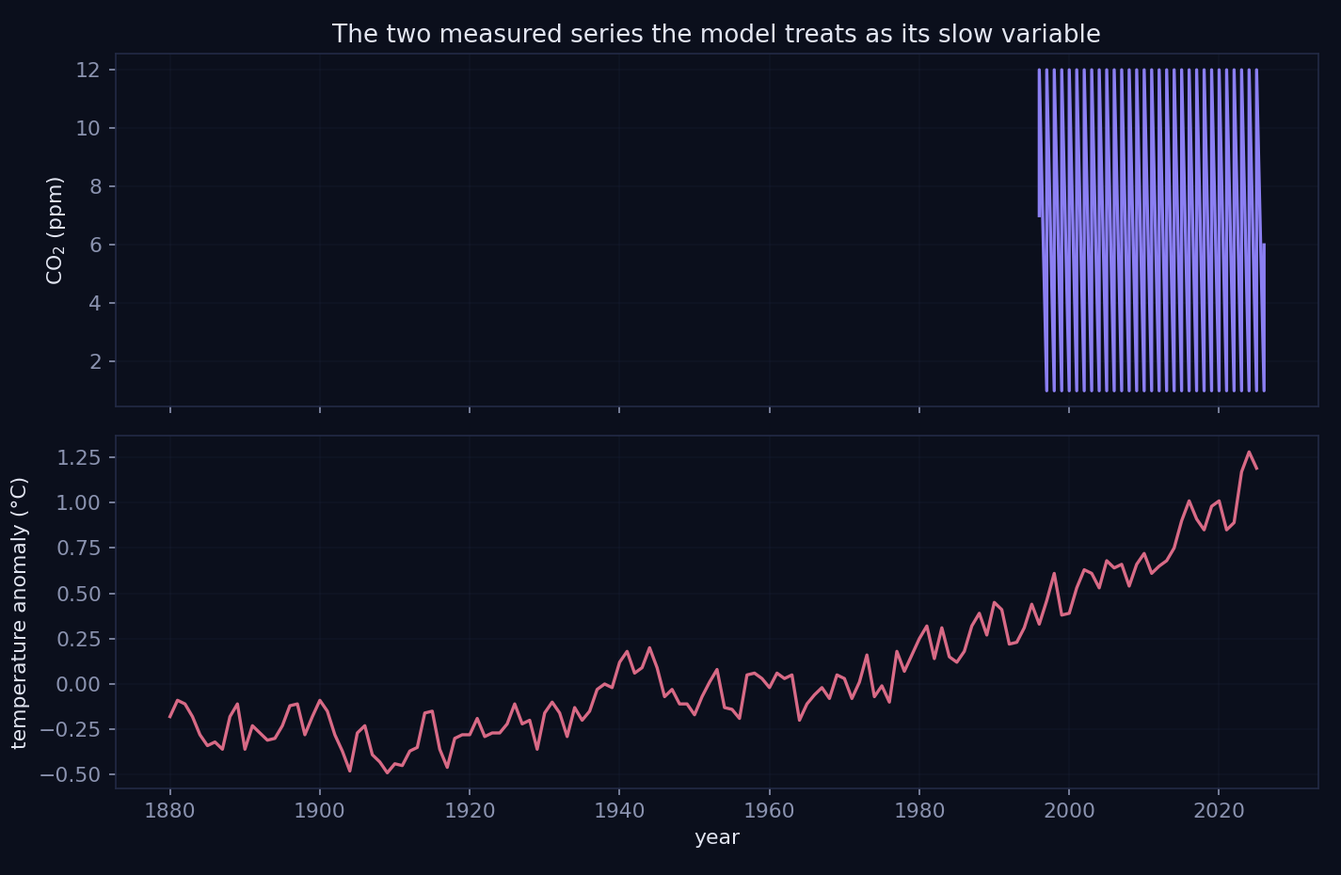
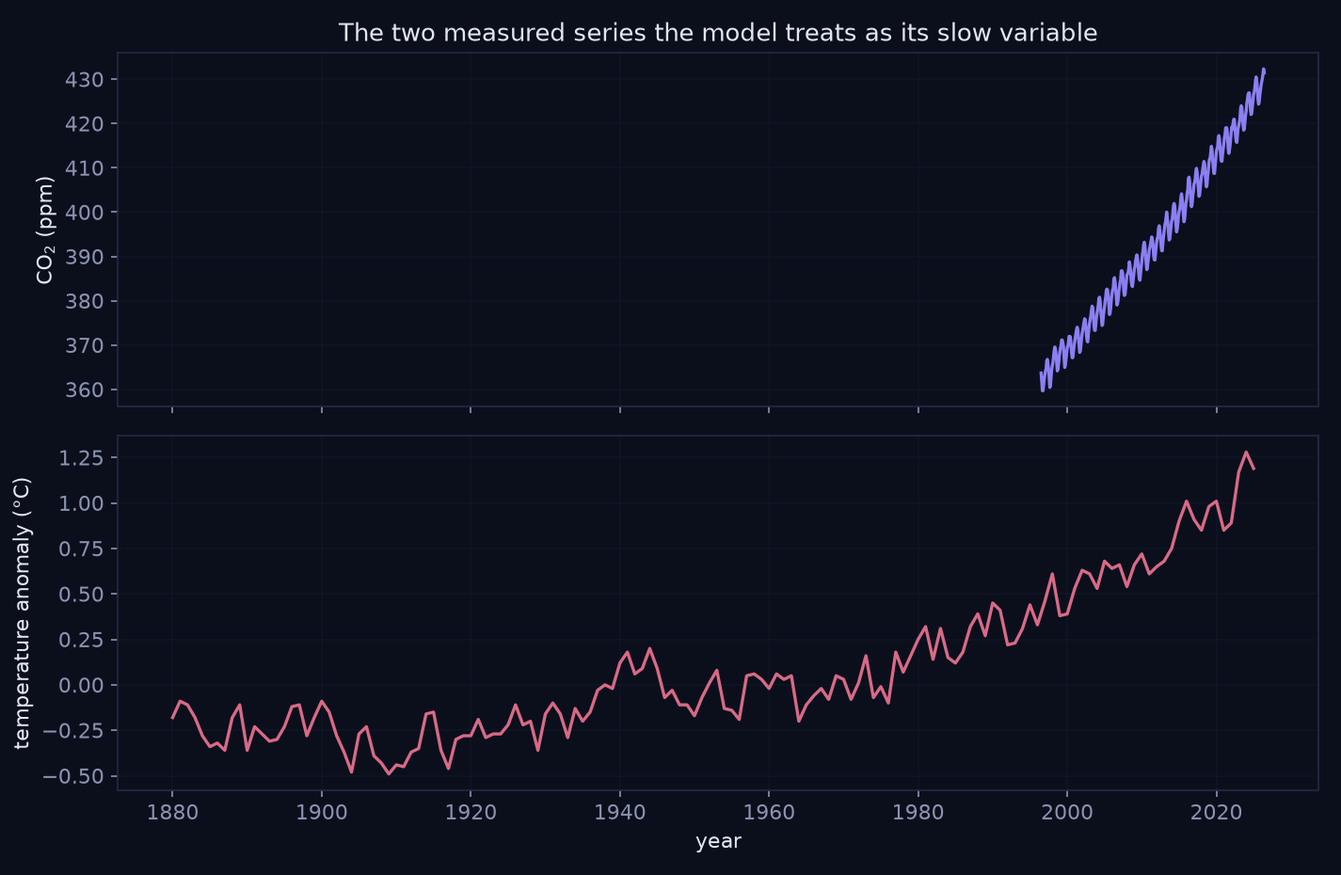
Fix real chart bugs across the site: wrong data, broken layout, off-theme
Found and fixed a genuine data bug: 11_climate_record.png plotted p[0]/p[1]
of a [year, month, ppm] triplet directly, graphing year against month number
instead of the real CO2 ppm value - the y-axis read 2-12 instead of ~360-430
and only ~30 years of monthly data rendered as a compressed zigzag instead of
the full 1880-2024 Keeling-curve shape.

Found and fixed a blocking NameError in longevity-quotient/build_lq.py:
_save() called plt.close(fig) but matplotlib.pyplot was only imported
locally inside figures(), so every run past the first figure crashed before
reaching audit or save - meaning lq_allometry/lq_orders/lq_wild_captive had
not actually been regenerated in a long time despite carrying site-matching
color constants (INK/DIM, real per-class hex codes) that were never applied,
because the one rcParams call that would have switched the canvas to the
site's dark background was simply never added. Fixed both: the import scope
and the missing dark-theme rcParams block.

Fixed the same shared audit()'s false-positive off-canvas findings
(fig_lq_explained.py) by adding the view-limit guard that the two other
independent audit implementations in this codebase (figstyle.py,
build_throughlines.py) already carry - a locator keeps Text objects for
ticks just past each edge that are never actually drawn.

Fixed three separate hard character-count label truncations that cut text
off mid-word (build_throughlines.py's route labels, build_atlas_figures.py's
[…]

diff --git a/site/library.html b/site/library.html
@@ -27,7 +27,7 @@ drawn by hand.</p>
 </div><div class="card">
 <div class="tag">seaborn histogram and matplotlib cumulative curve</div>
 <h3 style="margin-top:4px">How world electricity demand is distributed and concentrated</h3>
-<img class="fig wide" src="assets/02_demand_distribution.png?v=107cb4ff" alt="How world electricity demand is distributed and concentrated">
+<img class="fig wide" src="assets/02_demand_distribution.png?v=cfe7dbe1" alt="How world electricity demand is distributed and concentrated">
 <p>The left panel counts countries by their average electricity demand. The scale is logarithmic because the range is very wide. The right panel adds the countries together, starting with the largest. It shows how few countries hold most of the world demand. This concentration is the reason a change in one large system can move the world total.</p>
 
 </div><div class="card">
@@ -39,37 +39,37 @@ drawn by hand.</p>
 </div><div class="card">
 <div class="tag">seaborn box plot</div>
 <h3 style="margin-top:4px">How strongly each type of node resists change</h3>
-<img class="fig wide" src="assets/04_inertia_by_type.png?v=ab8f6f63" alt="How strongly each type of node resists change">
+<img class="fig wide" src="assets/04_inertia_by_type.png?v=374d9823" alt="How strongly each type of node resists change">
 <p>Inertia controls the speed of a node. A recorded event has the lowest inertia because a disaster happens at once. Behaviour channels have the highest inertia because habits change over years. Price benchmarks cover a range, because each one takes its value from its own measured volatility. This single parameter produces the order in which effects arrive across the model.</p>
 
 </div><div class="card">
 <div class="tag">seaborn histogram and matplotlib bar</div>
 <h3 style="margin-top:4px">The structure of the links between nodes</h3>
-<img class="fig wide" src="assets/05_link_structure.png?v=d5cf8e91" alt="The structure of the links between nodes">
+<img class="fig wide" src="assets/05_link_structure.png?v=4bd0ae10" alt="The structure of the links between nodes">
 <p>The left panel counts links by their weight. Most links are weak. A small number are strong. This shape is expected, because each node connects strongly to a few neighbours and weakly to many others. The right panel shows which pairs of node types are joined most often. The model contains 197,068 links in total, of which 1,144 are negative. A negative link carries relief rather than stress.</p>
 
 </div><div class="card">
 <div class="tag">seaborn heat map with annotations</div>
 <h3 style="margin-top:4px">How far one change travels, by the layer it starts in</h3>
-<img class="fig wide" src="assets/06_scenario_reach.png?v=114d30c3" alt="How far one change travels, by the layer it starts in">
+<img class="fig wide" src="assets/06_scenario_reach.png?v=7b7b295c" alt="How far one change travels, by the layer it starts in">
 <p>Each bar is a change applied to the most connected node in one layer, and its length is the number of other nodes that finished more than 0.02 away from where they started. The axis is logarithmic because the answers span five orders of magnitude: a change at the most connected power plant in the world moves one other node, and a change at the climate moves seventy-eight thousand. The climate is the only node in the model that connects to every country. The spread is the evidence that the propagation discriminates rather than floods.</p>
 
 </div><div class="card">
 <div class="tag">matplotlib, logarithmic count axis</div>
 <h3 style="margin-top:4px">When the effect arrives</h3>
-<img class="fig wide" src="assets/07_arrival_order.png?v=425fc719" alt="When the effect arrives, by the layer the change starts in">
+<img class="fig wide" src="assets/07_arrival_order.png?v=a4bb976c" alt="When the effect arrives, by the layer the change starts in">
 <p>One line per starting layer. Each point counts the nodes reached for the first time at that step, so the area under a line is that layer&rsquo;s total reach. A grid delivers almost everything it is going to deliver in the first two steps, because its plants and districts are its immediate neighbours. A price works through the fuel supplies and the grids behind them and is still reaching new nodes twenty steps later. Physical coupling is fast and shallow; market coupling is slow and deep.</p>
 
 </div><div class="card">
 <div class="tag">matplotlib with twin axes</div>
 <h3 style="margin-top:4px">The model saturates rather than growing without limit</h3>
-<img class="fig wide" src="assets/08_response_curve.png?v=437f4faf" alt="The model saturates rather than growing without limit">
+<img class="fig wide" src="assets/08_response_curve.png?v=b639c342" alt="The model saturates rather than growing without limit">
 <p>A change is applied to the climate, the most widely connected node in the model, and its size is raised in steps from a twentieth to the maximum. The violet line counts the nodes that moved; the gold line gives the mean effect among them. The violet line is nearly vertical and then flat: past about a fifth of full size the change already reaches everything it is ever going to reach, and pushing harder only pushes those same nodes further. The gold line keeps climbing, but with a bend, because the tanh in the calculation bounds every node inside (&minus;1, 1). A price cannot rise without end and a grid cannot fail more than completely.</p>
 
 </div><div class="card">
 <div class="tag">plotnine, grammar of graphics</div>
 <h3 style="margin-top:4px">System size against low carbon share</h3>
-<img class="fig wide" src="assets/09_size_vs_lowcarbon.png?v=979dc8b0" alt="System size against low carbon share">
+<img class="fig wide" src="assets/09_size_vs_lowcarbon.png?v=db38614b" alt="System size against low carbon share">
 <p>Each point is one country. The horizontal position is the size of its power system. The vertical position is the share of its electricity that comes from nuclear, hydro or other renewable sources. The grey line is a smoothed trend. The plot shows that size alone does not decide the low carbon share. Small systems occupy the full range, because a single large hydro station can supply most of a small country.</p>
 
 </div><div class="card">
@@ -82,25 +82,25 @@ drawn by hand.</p>
 </div><div class="card">
 <div class="tag">matplotlib, stacked time series</div>
 <h3 style="margin-top:4px">The two climate series that set the state of the model</h3>
-<img class="fig wide" src="assets/11_climate_record.png?v=f3c15d6f" alt="The two climate series that set the state of the model">
+<img class="fig wide" src="assets/11_climate_record.png?v=40ff5450" alt="The two climate series that set the state of the model">
 <p>The upper panel is the carbon dioxide record from Mauna Loa. The saw pattern is the growing season of the northern hemisphere. The lower panel is the global temperature anomaly. Both series are read directly into the model. They set the starting state of the two climate nodes. The climate nodes then connect to every national grid, and to the gas and electricity prices, through heating and cooling demand.</p>
 
 </div><div class="card">
 <div class="tag">pandas plotting on matplotlib axes</div>
 <h3 style="margin-top:4px">Recorded disasters that the model contains</h3>
-<img class="fig wide" src="assets/12_recorded_events.png?v=3f8b12eb" alt="Recorded disasters that the model contains">
+<img class="fig wide" src="assets/12_recorded_events.png?v=451b14ca" alt="Recorded disasters that the model contains">
 <p>The left panel adds the adjusted damage of every energy relevant disaster in each decade, and separates the total by disaster type. The right panel names the twelve costliest single events. These records come from the international disaster database. In the model, each event is a node. The recorded damage sets the strength of the link from that event to the national grid of the country it struck.</p>
 
 </div><div class="card">
 <div class="tag">matplotlib, computed field and measured series</div>
 <h3 style="margin-top:4px">The space layer</h3>
-<img class="fig wide" src="assets/14_space_layer.png?v=ef648f89" alt="Annual mean insolation against latitude, and the measured total solar irradiance">
+<img class="fig wide" src="assets/14_space_layer.png?v=eac55590" alt="Annual mean insolation against latitude, and the measured total solar irradiance">
 <p>On the left, the annual mean sunlight arriving above the atmosphere at each latitude. This is not data. It is computed from the measured solar constant, the obliquity of 23.44 degrees and the eccentricity of the orbit, integrated over 365 days. The dashed line is the solar constant divided by four, which is what the area-weighted mean of the curve has to equal &mdash; the disc the Earth intercepts over the sphere it radiates from. It agrees to one part in ten thousand, which is the check that the integration is right rather than merely plausible. The equator receives 416 W/m&sup2; and the poles about 174.</p>
 <p>On the right, the measured total solar irradiance, NRLTSI2, with its stated uncertainty as the shaded band. Four solar cycles are visible. The whole vertical range of the panel is two watts in thirteen hundred and sixty, which is the honest scale of the thing the solar minimum scenario perturbs.</p>
 
 <div class="tag">matplotlib, horizontal bar, log scale</div>
 <h3 style="margin-top:4px">Every node names its source</h3>
-<img class="fig wide" src="assets/13_provenance.png?v=c487cf8a" alt="Every node names its source">
+<img class="fig wide" src="assets/13_provenance.png?v=feec08cf" alt="Every node names its source">
 <p>The model records where each node came from. This chart counts the nodes by source. The largest groups are the settlement list from GeoNames and the plant list from the World Resources Institute. The group marked as published studies holds the consumer response values. These values are the only assumed parameters in the model, and they are labelled so that a reader can find them.</p>
 
 </div>

diff --git a/site/longevity.html b/site/longevity.html
@@ -27,7 +27,7 @@ enough to be worth dividing out. What remains is the longevity quotient:</p>
 <p style="text-align:center;font-size:16px"><code>LQ = observed lifespan ÷
 lifespan predicted from body mass</code></p>
 
-<img class="fig wide" src="assets/lq_explained.png?v=212adeb1" alt="Three animals of increasing mass, with the lifespan the allometry predicts beside the lifespan actually observed, and the quotient that falls out.">
+<img class="fig wide" src="assets/lq_explained.png?v=6c856fa3" alt="Three animals of increasing mass, with the lifespan the allometry predicts beside the lifespan actually observed, and the quotient that falls out.">
 <p class="small">Mass rises left to right and so does the prediction, because the fit can only go up. What the animals do is not monotonic, and the quotient is what is left once size has been divided out.</p>
 
 <p>It is built by analogy with the encephalisation quotient<sup class="cite" id="cr1"><a href="#ref1">1</a></sup>, which does the
@@ -52,7 +52,7 @@ member or species count. Click a group to drop into the species inside it.</p>
 <a class="btn ghost" href="downloads/longevity-code.zip">Download code and data</a>
 </div>
 
-<img class="fig wide" src="assets/lq_allometry.png?v=4532baea"
+<img class="fig wide" src="assets/lq_allometry.png?v=43b17fa5"
  alt="Maximum lifespan against adult body mass on logarithmic axes, coloured by
  class, with the fitted global relationship and labelled outliers">
 <p class="small">Lifespan against body mass. The dashed line is the fit across
@@ -76,7 +76,7 @@ Flight, burrowing, venom, armour and simply being difficult to swallow all
 register as raised quotients. Being a ground bird or a small terrestrial
 insectivore registers as the reverse.</p>
 
-<img class="fig wide" src="assets/lq_orders.png?v=36f3b56f"
+<img class="fig wide" src="assets/lq_orders.png?v=30b1f34a"
  alt="Bar chart of taxonomic orders ranked by geometric mean longevity quotient">
 <p class="small">Every order holding four or more species, ranked by geometric
 mean quotient. The dashed line is parity with prediction.</p>
@@ -118,7 +118,7 @@ it appears the moment body mass is divided out.</p>
 quahog 45&times; above it (a real 507-year lifespan), the giant Pacific
 octopus about a twentieth below (dead in five real years).</p>
 
-<img class="fig wide" src="assets/lq_wild_captive.png?v=e489e3de"
+<img class="fig wide" src="assets/lq_wild_captive.png?v=1972ddb8"
  alt="Dumbbell chart comparing wild and captive maximum lifespan by species">
 <p class="small">Wild against captive, sorted by the size of the gap. Where
 protection helps most, and where it does not help at all.</p>

diff --git a/site/heat.html b/site/heat.html
@@ -55,16 +55,16 @@ this heat increases emissions.</p>
 rising with price to the real break-even at 1.53&cent;/kWh, then on to
 today's real operating point at 6.5&cent; and $20.00.</p>
 
-<img class="fig wide" src="assets/heat_fig1_breakeven_price.png?v=e714947e" alt="Break-even electricity price as a function of the gas price. The line is the locus where the two routes cost the same; below it the electric boiler wins.">
+<img class="fig wide" src="assets/heat_fig1_breakeven_price.png?v=4dfe72c4" alt="Break-even electricity price as a function of the gas price. The line is the locus where the two routes cost the same; below it the electric boiler wins.">
 <p class="small">Break-even electricity price as a function of the gas price. The line is the locus where the two routes cost the same; below it the electric boiler wins.</p>
 
-<img class="fig wide" src="assets/heat_fig3_costgap_contour.png?v=26942bad" alt="Cost gap across the electricity price and gas price plane. The diagonal structure is the spark gap dominating both axes.">
+<img class="fig wide" src="assets/heat_fig3_costgap_contour.png?v=5717fe3b" alt="Cost gap across the electricity price and gas price plane. The diagonal structure is the spark gap dominating both axes.">
 <p class="small">Cost gap across the electricity price and gas price plane. The diagonal structure is the spark gap dominating both axes.</p>
 
-<img class="fig wide" src="assets/heat_fig4_tornado.png?v=623c085d" alt="Sensitivity of the break-even to every input. Fuel prices dominate; capital and operations barely move it.">
+<img class="fig wide" src="assets/heat_fig4_tornado.png?v=f4c194c4" alt="Sensitivity of the break-even to every input. Fuel prices dominate; capital and operations barely move it.">
 <p class="small">Sensitivity of the break-even to every input. Fuel prices dominate; capital and operations barely move it.</p>
 
-<img class="fig wide" src="assets/heat_fig5_emissions_parity.png?v=9ac36287" alt="Emissions of both routes against grid carbon intensity. The crossing point is the parity threshold.">
+<img class="fig wide" src="assets/heat_fig5_emissions_parity.png?v=a425c7d2" alt="Emissions of both routes against grid carbon intensity. The crossing point is the parity threshold.">
 <p class="small">Emissions of both routes against grid carbon intensity. The crossing point is the parity threshold.</p>
 
 

diff --git a/longevity-quotient/longevity.html b/longevity-quotient/longevity.html
@@ -320,7 +320,7 @@ const RAW = (function () {
   }
   return out;
 })();
-const FITS = {"n_species":7873,"n_colonial_excluded_from_fits":4,"grade_census":{"C":1471,"B":6249,"A":149},"quality_weights":{"A":1.0,"B":0.5,"C":0.2},"ranks":{"kingdom":1,"phylum":10,"class":32,"order":199,"family":764,"genus":2921},"global_fit":{"a":0.5646355412419513,"b":0.19149893984216232,"r2":0.29803144631467693,"n":6398.0},"class_fits":{"Pisces":{"a":0.3818502356312261,"b":0.24112965870293157,"r2":0.5434339054692565,"n":876.0},"Invertebrata":{"a":0.593463212553046,"b":0.25605278620361555,"r2":0.4050996733686495,"n":57.0},"Aves":{"a":0.7039205212026438,"b":0.21485354882274568,"r2":0.41222508300103344,"n":1883.0},"Mammalia":{"a":0.31969466232726984,"b":0.22190670105864863,"r2":0.3689921891060992,"n":2583.0},"Reptilia":{"a":0.5854078745433863,"b":0.21404081132233366,"r2":0.3329696240953478,"n":916.0}},"rejected_fits":{"Amphibia":"fit too weak (r2=0.043, n_eff=83)"}};
+const FITS = {"n_species":7873,"n_colonial_excluded_from_fits":4,"grade_census":{"C":1471,"B":6249,"A":149},"quality_weights":{"A":1.0,"B":0.5,"C":0.2},"ranks":{"kingdom":1,"phylum":10,"class":32,"order":199,"family":764,"genus":2921},"global_fit":{"a":0.5646355412419608,"b":0.19149893984216265,"r2":0.29803144631467504,"n":6398.0},"class_fits":{"Pisces":{"a":0.381850235631231,"b":0.24112965870293154,"r2":0.5434339054692574,"n":876.0},"Invertebrata":{"a":0.5934632125530459,"b":0.2560527862036156,"r2":0.4050996733686498,"n":57.0},"Aves":{"a":0.7039205212026463,"b":0.21485354882274485,"r2":0.4122250830010342,"n":1883.0},"Mammalia":{"a":0.3196946623272643,"b":0.221906701058648,"r2":0.3689921891060991,"n":2583.0},"Reptilia":{"a":0.585407874543387,"b":0.21404081132233282,"r2":0.3329696240953477,"n":916.0}},"rejected_fits":{"Amphibia":"fit too weak (r2=0.043, n_eff=83)"}};
 const ROWH = 30;
 const RANKNAME = {ki:'kingdom',ph:'phylum',cl:'class',or:'order',
                   fa:'family',ge:'genus'};

diff --git a/site/storage.html b/site/storage.html
@@ -52,16 +52,16 @@ over about a third as many equivalent cycles as the two-hour case.</p>
 against a dashed line showing what linear growth from the first two would
 have looked like.</p>
 
-<img class="fig wide" src="assets/storage_fig3_duration_value.png?v=b54d5a77" alt="Revenue against storage duration. The curve bends at about four hours.">
+<img class="fig wide" src="assets/storage_fig3_duration_value.png?v=ea3889b3" alt="Revenue against storage duration. The curve bends at about four hours.">
 <p class="small">Revenue against storage duration. The curve bends at about four hours.</p>
 
-<img class="fig wide" src="assets/storage_fig2_dispatch_week.png?v=33b76c80" alt="A summer week of dispatch. Charging fills the solar belly of the day; discharge meets the evening peak.">
+<img class="fig wide" src="assets/storage_fig2_dispatch_week.png?v=1d9f4b7e" alt="A summer week of dispatch. Charging fills the solar belly of the day; discharge meets the evening peak.">
 <p class="small">A summer week of dispatch. Charging fills the solar belly of the day; discharge meets the evening peak.</p>
 
-<img class="fig wide" src="assets/storage_fig4_sensitivity.png?v=915a1c38" alt="Sensitivity to round-trip efficiency and degradation cost.">
+<img class="fig wide" src="assets/storage_fig4_sensitivity.png?v=4292e72a" alt="Sensitivity to round-trip efficiency and degradation cost.">
 <p class="small">Sensitivity to round-trip efficiency and degradation cost.</p>
 
-<img class="fig wide" src="assets/storage_fig1_prices.png?v=9dad5ac5" alt="The price series: duration curve and average daily shape.">
+<img class="fig wide" src="assets/storage_fig1_prices.png?v=8be86fca" alt="The price series: duration curve and average daily shape.">
 <p class="small">The price series: duration curve and average daily shape.</p>
 
 <h2>Method</h2>

diff --git a/site/index.html b/site/index.html
@@ -34,11 +34,11 @@ try{var m=localStorage.getItem('motion');if(m!=='on'&&m!=='off')m=matchMedia('(p
 
 <div class="mosaic" aria-hidden="true">
 <a href="library.html" tabindex="-1"><img src="assets/01_world_fuel_mix.png?v=c9da749e" alt=""></a>
-<a href="library.html" tabindex="-1"><img src="assets/02_demand_distribution.png?v=107cb4ff" alt=""></a>
+<a href="library.html" tabindex="-1"><img src="assets/02_demand_distribution.png?v=cfe7dbe1" alt=""></a>
 <a href="library.html" tabindex="-1"><img src="assets/03_price_histories.png?v=a959c533" alt=""></a>
-<a href="library.html" tabindex="-1"><img src="assets/04_inertia_by_type.png?v=ab8f6f63" alt=""></a>
-<a href="library.html" tabindex="-1"><img src="assets/05_link_structure.png?v=d5cf8e91" alt=""></a>
-<a href="library.html" tabindex="-1"><img src="assets/06_scenario_reach.png?v=114d30c3" alt=""></a>
+<a href="library.html" tabindex="-1"><img src="assets/04_inertia_by_type.png?v=374d9823" alt=""></a>
+<a href="library.html" tabindex="-1"><img src="assets/05_link_structure.png?v=4bd0ae10" alt=""></a>
+<a href="library.html" tabindex="-1"><img src="assets/06_scenario_reach.png?v=7b7b295c" alt=""></a>
 </div>
 
 <img class="fig wide" src="assets/energy_model_chart.png?v=fbbcf9ef"

diff --git a/site/model.html b/site/model.html
@@ -135,7 +135,7 @@ links, using the coefficients from 4.3.</li>
 up at sixty steps. Nothing in this write-up reaches sixty.</p>
 </div>
 
-<img class="fig wide" src="assets/model_propagation_step.png?v=c7b4bda7"
+<img class="fig wide" src="assets/model_propagation_step.png?v=12fc8122"
  alt="One node, one step: driver weights into a weighted mean, damped by inertia, an optional applied change, squashed by tanh, moving the node toward its new effect">
 
 <h2>5. How the model is weighted</h2>
@@ -222,7 +222,7 @@ The check file is <code>calibrate/out/parity_target.json</code>.</p>
 
 <hr>
 <h2>Figures from this model</h2>
-<img class="fig wide" src="assets/energy_model_throughlines.png?v=17dc790e"
+<img class="fig wide" src="assets/energy_model_throughlines.png?v=286ad871"
  alt="Routes through the model from the climate to behaviour">
 <p class="small">The routes through the system, computed from the link weights.
 <a href="library.html">All figures</a>.</p>

diff --git a/build_throughlines.py b/build_throughlines.py
@@ -192,7 +192,7 @@ def main():
                           right=0.965, top=0.500, bottom=0.045)
 
     fig.text(0.055, 0.978, "Throughlines: from the sun to the mind",
-             color=INK, fontsize=21, fontweight="600", va="top")
+             color=INK, fontsize=21, fontweight="bold", va="top")
     fig.text(0.055, 0.951,
              "Every number on this sheet is read from the published model and "
              "computed with the propagation the atlas runs.",
@@ -220,7 +220,7 @@ def main():
             boxstyle="round,pad=0.25,rounding_size=0.4",
             linewidth=1.2, edgecolor=KCOL[k], facecolor=FAINT, zorder=2))
         ax.text(x, y + 1.0, LABEL[k], ha="center", va="center", color=INK,
-                fontsize=9.6, fontweight="600", zorder=3)
+                fontsize=9.6, fontweight="bold", zorder=3)
         ax.text(x, y - 1.3, f"{counts[k]:,}", ha="center", va="center",
                 color=DIM, fontsize=9.0, zorder=3)
         at[k] = (x, y, w, h)
@@ -275,15 +275,15 @@ def main():
             seen.add(nxt)
             cur = nxt
         axb.text(0, y + 11.5, title, color=INK, fontsize=11,
-                 fontweight="600", va="center")
+                 fontweight="bold", va="center")
         step = 100.0 / max(len(route), 1)
         for j, n in enumerate(route):
             x = j * step + 2
             axb.scatter([x], [y], s=95, color=KCOL.get(kind[n], DIM),
                         zorder=3, edgecolors=BG, linewidths=1.2)
             label = nm[n]
-            if len(label) > 26:
-                label = label[:25].rstrip() + "…"
+            if len(label) > 40:
+                label = label[:39].rsplit(" ", 1)[0].rstrip() + "…"
             axb.text(x, y - 7, label, color=DIM, fontsize=8.2,
                      ha="left", va="center", rotation=0)
             axb.text(x, y + 4.5, f"{st[n]:+.3f}", color=INK, fontsize=8.4,
@@ -378,8 +378,8 @@ def main():
     im = axe.imshow(M, aspect="auto", cmap="magma",
                     norm=matplotlib.colors.PowerNorm(0.45))
     axe.set_xticks(range(len(order)))
-    axe.set_xticklabels([SHORT[k] for k in order], rotation=55, ha="right",
-                        color=DIM, fontsize=7.6,
+    axe.set_xticklabels([SHORT[k] for k in order], rotation=68, ha="right",
+                        color=DIM, fontsize=7.2,
                         rotation_mode="anchor")
     axe.set_yticks(range(len(names)))
     axe.set_yticklabels(names, color=DIM, fontsize=8.6)

diff --git a/longevity-quotient/build_lq.py b/longevity-quotient/build_lq.py
@@ -38,6 +38,13 @@ import json
 import math
 import os
 
+import matplotlib
+matplotlib.use("Agg")
+import matplotlib.pyplot as plt  # noqa: E402 - needed at module level so
+                                  # _save() (defined before figures()) can
+                                  # reach it; a local import inside figures()
+                                  # alone left _save() with an undefined name.
+
 HERE = os.path.dirname(os.path.abspath(__file__))
 # The merged table is the model of record when it exists. The hand-checked
 # seed is kept beside it and is still the highest-precedence source inside the
@@ -490,9 +497,21 @@ def _save(fig, name):
 
 
 def figures(rows, summary, fit_rows):
-    import matplotlib
-    matplotlib.use("Agg")
-    import matplotlib.pyplot as plt
+
+    # These four figures already carried INK/DIM and the real per-class site
+    # colors (see `colors` below), but never actually switched the canvas to
+    # the site's dark background - the choice of colors implies the intent,
+    # the rcParams to realize it were simply never set, so every one of them
+    # rendered as a light matplotlib-default figure next to the rest of the
+    # (dark) site.
+    BG = "#070a12"
+    plt.rcParams.update({
+        "figure.facecolor": BG, "axes.facecolor": BG, "savefig.facecolor": BG,
+        "text.color": INK, "axes.labelcolor": INK, "axes.titlecolor": INK,
+        "xtick.color": DIM, "ytick.color": DIM,
+        "axes.edgecolor": "#232a45", "grid.color": "#232a45",
+        "axes.spines.top": False, "axes.spines.right": False,
+    })
 
     ga, gb = summary["global_fit"]["a"], summary["global_fit"]["b"]
     colors = {"Mammalia": "#8b7ff2", "Aves": "#5aa8d8", "Reptilia": "#4f9d84",

diff --git a/build_atlas_figures.py b/build_atlas_figures.py
@@ -313,7 +313,9 @@ def main():
             if key.lower() in s.lower():
                 return name
         head = s.split("·")[0].strip()
-        return (head[:38] + "…") if len(head) > 38 else (head or "unattributed")
+        if len(head) <= 55:
+            return head or "unattributed"
+        return head[:55].rsplit(" ", 1)[0].rstrip() + "…"
 
     src = collections.Counter()
     for i in range(N):
@@ -339,7 +341,13 @@ def main():
     co2, temp = D.get("co2", []), D.get("temp", [])
     if co2:
         fig, (a1, a2) = plt.subplots(2, 1, figsize=(9.5, 6.2), sharex=True)
-        a1.plot([p[0] for p in co2], [p[1] for p in co2], color=ACC, lw=1.6)
+        # co2 entries are [year, month, ppm], not [year, ppm] - plotting
+        # p[0]/p[1] directly graphed year against month number (1-12) and
+        # threw the real ppm value away, which is why the y-axis read 2-12
+        # instead of ~360-430 and the line rendered as a dense monthly
+        # zigzag compressed into whatever pixel width the year got.
+        a1.plot([p[0] + (p[1] - 1) / 12 for p in co2], [p[2] for p in co2],
+                color=ACC, lw=1.6)
         a1.set_ylabel("CO$_2$ (ppm)")
         a1.grid(alpha=0.18)
         a1.set_title("The two measured series the model treats as its slow "

diff --git a/longevity-quotient/fig_lq_explained.py b/longevity-quotient/fig_lq_explained.py
@@ -218,9 +218,18 @@ def audit(fig):
             if t.get_text().strip():
                 items.append(t)
         if ax.axison:
-            for t in ax.get_xticklabels() + ax.get_yticklabels():
-                if t.get_text().strip() and t.get_visible():
-                    items.append(t)
+            # A locator (log-scale ones especially) keeps Text objects for
+            # ticks just past each edge for its own bookkeeping; they report
+            # get_visible()==True without ever being drawn on the page, and
+            # counting them invents off-canvas failures that are not real.
+            for axis, getter, labeler in (
+                (ax.xaxis, ax.get_xticks, ax.get_xticklabels),
+                (ax.yaxis, ax.get_yticks, ax.get_yticklabels)):
+                lo, hi = sorted(axis.get_view_interval())
+                for loc, t in zip(getter(), labeler()):
+                    if lo - 1e-9 <= loc <= hi + 1e-9 and \
+                            t.get_text().strip() and t.get_visible():
+                        items.append(t)
 
     boxes = []
     for t in items:

diff --git a/build_propagation_diagram.py b/build_propagation_diagram.py
@@ -122,14 +122,14 @@ def main():
     arrow(ax, (6.47, cy), (7.35, cy), shrink=2)
     step_tag(ax, 6.90, 0.85, 2, "damp by the\nnode's inertia")
 
-    ax.add_patch(FancyArrowPatch((7.90, 0.55), (7.90, cy - 0.55),
+    ax.add_patch(FancyArrowPatch((7.90, 3.85), (7.90, cy + 0.55),
                                   arrowstyle="-|>", color=DIM, linewidth=1.1,
                                   linestyle=(0, (2, 2)), mutation_scale=10,
                                   zorder=2))
-    ax.text(7.90, 0.32, "applied change,\nif any", color=DIM, fontsize=8.2,
-            ha="center", va="top", zorder=4)
+    ax.text(7.90, 4.05, "applied change, if any", color=DIM, fontsize=8.2,
+            ha="center", va="bottom", zorder=4)
     box(ax, 7.90, cy, 1.35, 0.95, "tanh", None)
-    step_tag(ax, 7.90, 4.40, 3, "add any applied change,\nthen squash with tanh")
+    step_tag(ax, 7.90, 0.85, 3, "apply the change,\nsquash with tanh")
 
     arrow(ax, (8.58, cy), (9.45, cy), shrink=2)
     ax.add_patch(Circle((9.95, cy), 0.46, facecolor=NODE_COL,
